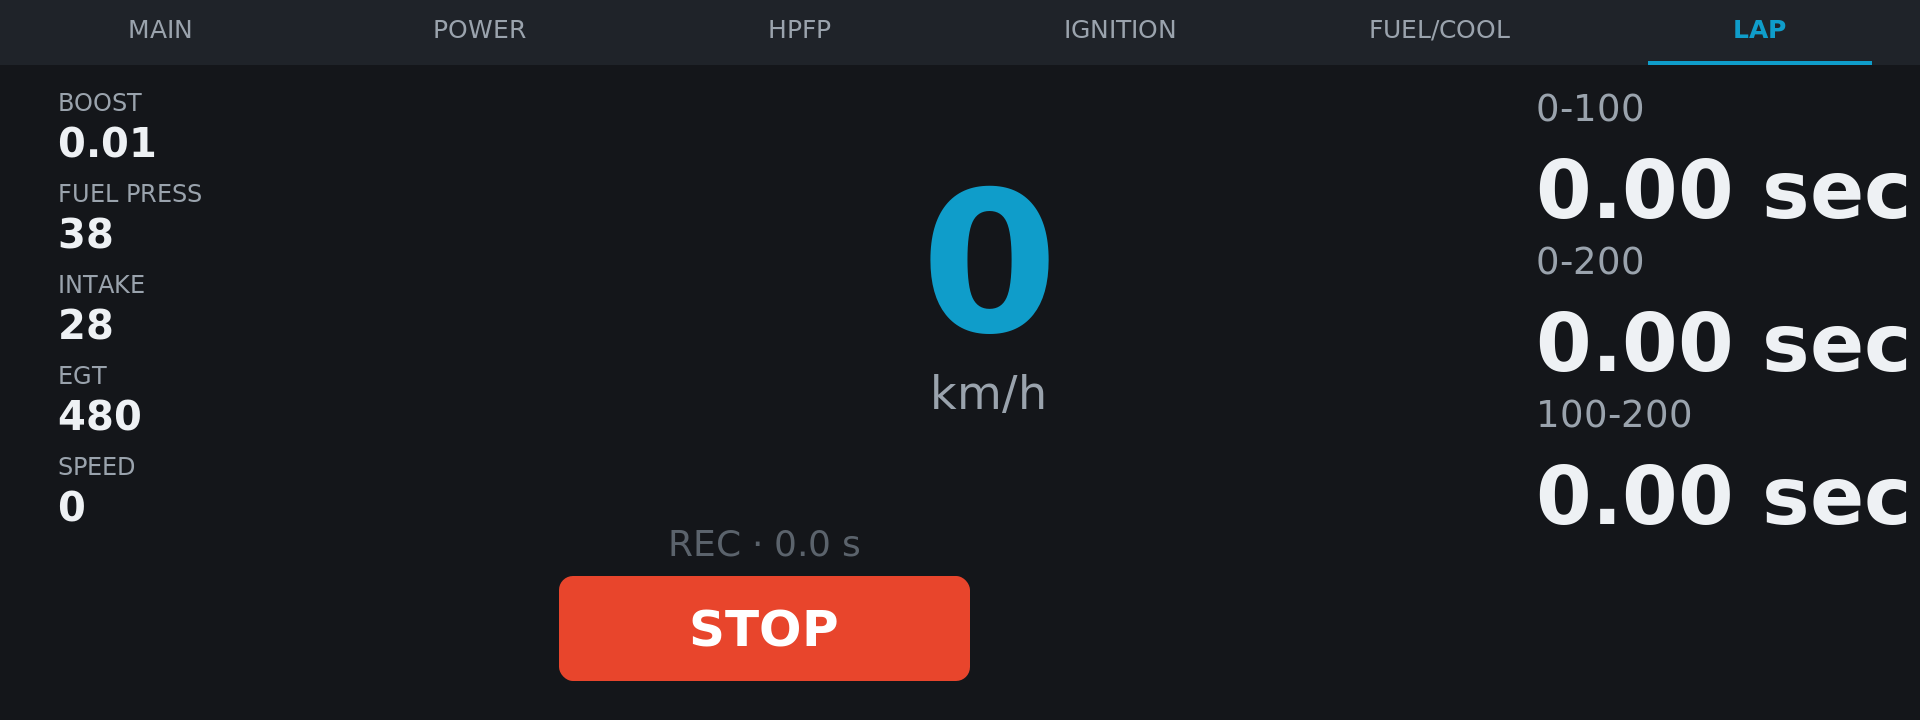
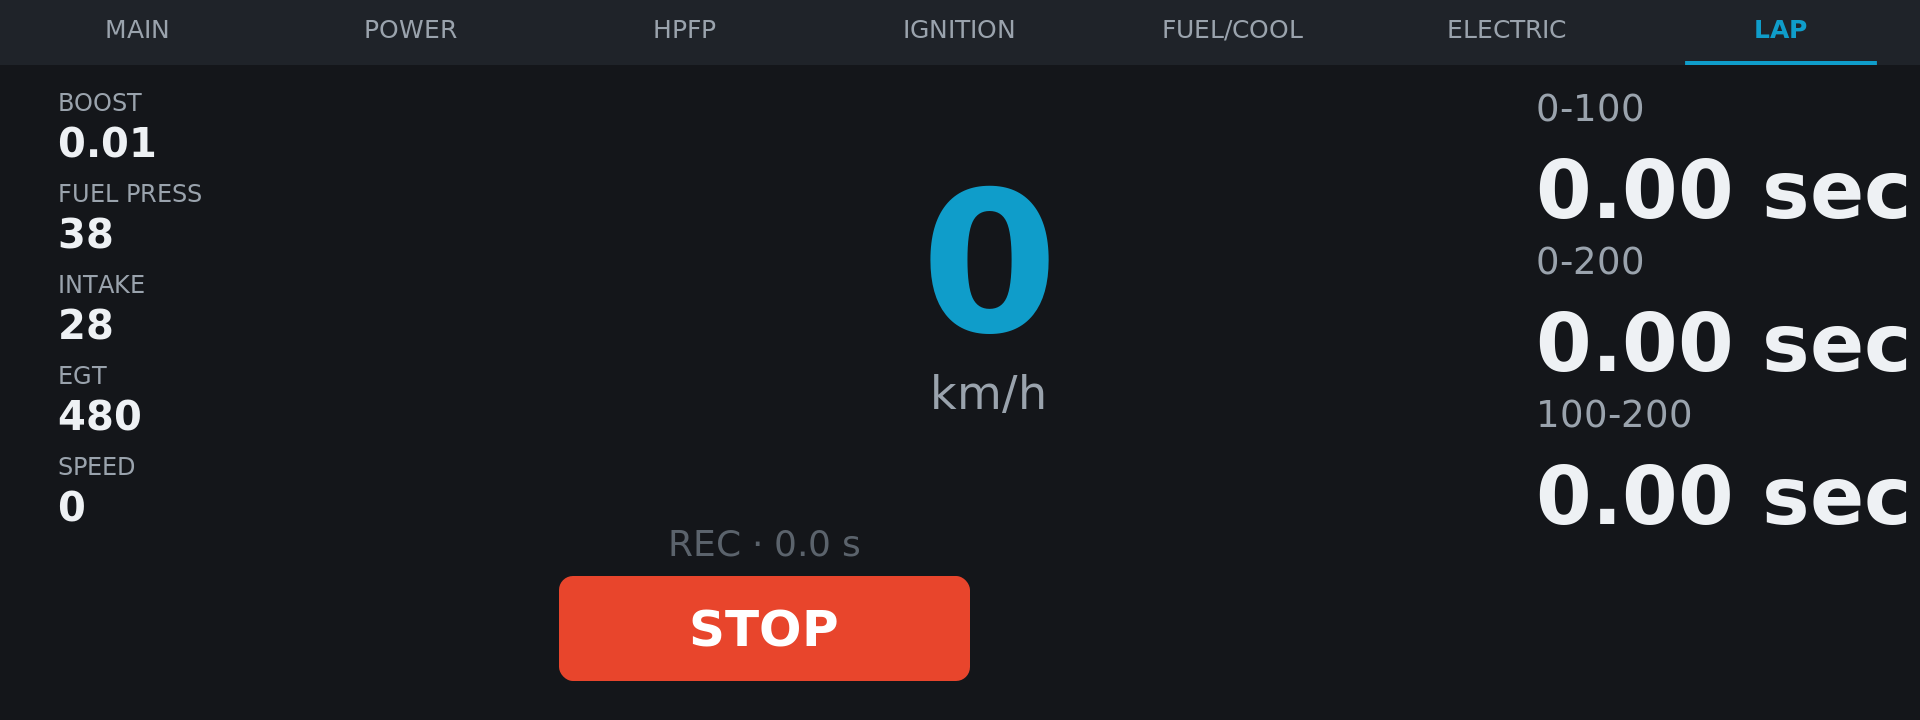
m_vitals_plus: ELECTRIC (бортовая сеть) top-level tab — voltage, alternator load %, regulator temp, output current; ALU_IST/IBS DID candidates + elec config in app.json; demo data; regenerate all 7 previews

diff --git a/apps/m_vitals_plus/main.js b/apps/m_vitals_plus/main.js
@@ -36,7 +36,16 @@ var TABS = [
   { id: "hpfp",  label: "HPFP" },
   { id: "ign",   label: "IGNITION" },
   { id: "fuelcool", label: "FUEL/COOL" },
+  { id: "elec",  label: "ELECTRIC" },
   { id: "lap",   label: "LAP" }
+];
+
+/* ELECTRIC tab ("Бортовая сеть"): four tiles in a 2x2 grid. */
+var ELEC_TILES = [
+  { key: "voltage",  label: "VOLTAGE",     unit: "V", dp: 1 },
+  { key: "alternatorTemp", label: "ALT TEMP", unit: "\u00b0C", dp: 0 },
+  { key: "alternatorLoad", label: "ALT LOAD", unit: "%", dp: 0, bar: true },
+  { key: "currentOut", label: "OUTPUT",     unit: "A", dp: 0 }
 ];
 
 /* FUEL/COOL tab ("Система топлива и охлаждения"): six tiles in a 3x2 grid.
@@ -121,6 +130,10 @@ var v = {
   radTemp: null,             // radiator outlet coolant temperature, deg C
   oilQuality: null,          // oil condition %, no trusted source yet -> "--"
   oilLevel: null,            // oil level %, no trusted source yet -> "--"
+  battCurrent: null,         // IBS battery current, A (charge positive)
+  fanDuty: null,             // cooling fan duty %, raw PWM figure
+  aluIst: null,              // ALU_IST actual alternator load current, A
+  aluTemp: null,             // regulator/alternator temperature, deg C
   stamp: {}                  // key -> Date.now() of last good read
 };
 
@@ -192,7 +205,7 @@ var ignLive = {
 /* helpers                                                            */
 /* ------------------------------------------------------------------ */
 
-var ALL_TILES = PRIMARY_TILES.concat(SECONDARY_TILES, FUELCOOL_TILES, [
+var ALL_TILES = PRIMARY_TILES.concat(SECONDARY_TILES, FUELCOOL_TILES, ELEC_TILES, [
   { key: "rpm", label: "RPM", unit: "", dp: 0 }
 ]);
 
@@ -222,6 +235,9 @@ function valueFor(key) {
   if (key === "speed") return lapSpeedKmh();
   if (key === "fuelPres") return fuelPressureActual();
   if (key === "fuelPresReq") return fuelPressureRequested();
+  if (key === "currentOut") return alternatorOutputA();
+  if (key === "alternatorLoad") return alternatorLoadPct();
+  if (key === "alternatorTemp") return alternatorTempC();
   // signal-fed values are push-based and always current while driving
   if (key === "coolant" || key === "oilTemp" || key === "rpm") {
     return num(v[key]) ? v[key] : null;
@@ -281,6 +297,33 @@ function currentLambda() {
   return lam;
 }
 
+/* ELECTRIC tab ("Бортовая сеть") derived figures.
+ * - tocootдача (alternator output current): prefer the direct ALU_IST figure
+ *   (actual alternator load in A); fall back to IBS battery current (charge
+ *   side only) so the tile still shows something while driving.
+ * - нагрузка (alternator load %): ALU_IST against the configured nominal max
+ *   output; without ALU_IST we cannot derive a real duty -> "--".
+ * - температура: regulator/alternator temperature DID; no trusted source yet
+ *   on most B58 DMEs -> "--" until probed on the car.
+ * - напряжение: IBS battery voltage (same figure as the MAIN tile). */
+function alternatorOutputA() {
+  if (isFresh("aluIst")) return v.aluIst;
+  if (isFresh("battCurrent") && v.battCurrent > 0) return v.battCurrent;
+  return null;
+}
+
+function alternatorLoadPct() {
+  if (isFresh("aluIst")) {
+    var nom = (gConfig.elec && num(gConfig.elec.alternatorMaxA)) ? gConfig.elec.alternatorMaxA : 170;
+    return Math.min(100, Math.max(0, v.aluIst / nom * 100));
+  }
+  return null;
+}
+
+function alternatorTempC() {
+  return isFresh("aluTemp") ? v.aluTemp : null;
+}
+
 /* ------------------------------------------------------------------ */
 /* colors                                                             */
 /* ------------------------------------------------------------------ */
@@ -307,6 +350,9 @@ function tileColor(key, val) {
     case "radTemp":  return val > 105 ? c("warning") : c("textPrimary");
     case "oilQuality": return val < 20 ? c("alert") : val < 40 ? c("warning") : c("success");
     case "oilLevel":   return val < 30 ? c("alert") : val < 50 ? c("warning") : c("textPrimary");
+    case "alternatorTemp": return val > 120 ? c("alert") : val > 100 ? c("warning") : c("textPrimary");
+    case "alternatorLoad": return val > 85 ? c("warning") : (val > 5 ? c("textPrimary") : c("textTertiary"));
+    case "currentOut": return val > 5 ? c("success") : c("textTertiary");
   }
   return c("textPrimary");
 }
@@ -381,6 +427,20 @@ function drawFuelCoolTab(ctx, top) {
   var rh = Math.floor(area / rows);
   for (var i = 0; i < FUELCOOL_TILES.length; i++) {
     var t = FUELCOOL_TILES[i];
+    var x = (i % cols) * cw;
+    var y = top + Math.floor(i / cols) * rh;
+    drawTile(ctx, x, y, cw, rh, t, valueFor(t.key));
+  }
+}
+
+/* ELECTRIC tab ("Бортовая сеть"): four tiles in a 2 x 2 grid. */
+function drawElecTab(ctx, top) {
+  var area = gH - top;
+  var cols = 2, rows = 2;
+  var cw = Math.floor(gW / cols);
+  var rh = Math.floor(area / rows);
+  for (var i = 0; i < ELEC_TILES.length; i++) {
+    var t = ELEC_TILES[i];
     var x = (i % cols) * cw;
     var y = top + Math.floor(i / cols) * rh;
     drawTile(ctx, x, y, cw, rh, t, valueFor(t.key));
@@ -1339,6 +1399,7 @@ function render() {
   else if (gActiveTab === "hpfp") drawHpfpTab(ctx, top);
   else if (gActiveTab === "ign") drawIgnTab(ctx, top);
   else if (gActiveTab === "fuelcool") drawFuelCoolTab(ctx, top);
+  else if (gActiveTab === "elec") drawElecTab(ctx, top);
   else if (gActiveTab === "lap") {
     if (gLapView === "detail" && lap.state === "done") drawLapDetails(ctx, top);
     else drawLap(ctx, top);
@@ -1507,11 +1568,16 @@ var gDmeCfg = null;   // config.dme from app.json (set in init)
 var POLL_METRICS = ["iat", "egt", "oilPressAbs", "boost", "lambda",
                     "mixtureAdapt", "knockRetard", "baro", "loadDirect",
                     "gearbox", "voltage", "fuelPresAct", "fuelPresReq", "ignAdv",
-                    "fuelTemp", "thermoPos", "fanRpm", "radTemp"];
+                    "fuelTemp", "thermoPos", "fanRpm", "radTemp",
+                    "battCurrent", "aluIst", "aluTemp"];
 
 /* metrics that are NOT polled from the DME (no trustworthy UDS source yet):
  * they stay null and render as "--" until wired up. */
 var NO_SOURCE_METRICS = ["oilQuality", "oilLevel"];
+
+/* value keys that storeMetric stamps; derived getters use isFresh on these */
+var METRIC_VKEY = { fanRpm: "fanRpm", battCurrent: "battCurrent",
+                    aluIst: "aluIst", aluTemp: "aluTemp" };
 
 function metricList(metric) {
   var list = gDmeCfg[metric];
@@ -1584,6 +1650,7 @@ function pollOne() {
     if (storeMetric(metric, val, cand)) {
       gResolved[metric] = cand;
       afterStore(metric, val);
+      if (metric === "fanRpm" && cand && cand.duty) v.fanDuty = val;
     } else {
       nextCandidate(metric, cand);   // implausible: try the next candidate
     }
@@ -1728,6 +1795,13 @@ function demoStep() {
   set("fanRpm", cly > 99 ? Math.round((cly - 99) * 220 + 400 * Math.abs(Math.sin(t * 0.7))) : 0);
   set("radTemp", cly - 6 - load * 4);
   // oilQuality / oilLevel: no simulated source either -> stay "--" on purpose
+
+  // ELECTRIC tab (borтовaya set'): IBS current follows voltage/regime,
+  // alternator actual load ALU_IST ~ idle 25A + load*100A, regulator temp
+  var ibs = 30 + load * 90 + 8 * Math.sin(t * 1.3);
+  set("battCurrent", ibs);
+  set("aluIst", 25 + load * 100 + 6 * Math.sin(t * 0.9));
+  set("aluTemp", 62 + load * 38);
 
   // ignition advance / knock retard for the ignition detail chart
   set("ignAdv", num(v.rpm) && v.rpm > 700 ? 8 + load * 22 - Math.abs(retardDemo()) : 8);

diff --git a/kit/tools/simulate.js b/kit/tools/simulate.js
@@ -429,7 +429,7 @@ function rasterize(svgPath, pngPath, cb) {
 /* ------------------------------------------------------------------ */
 
 runApp(8, function () {
-  var TAB_LABELS = ["main", "power", "hpfp", "ign", "fuelcool", "lap"];
+  var TAB_LABELS = ["main", "power", "hpfp", "ign", "fuelcool", "elec", "lap"];
   var wanted = tabFilter ? [tabFilter] : TAB_LABELS;
   var gW = SCREEN_W, gH = SCREEN_H;
   var queue = wanted.slice();
